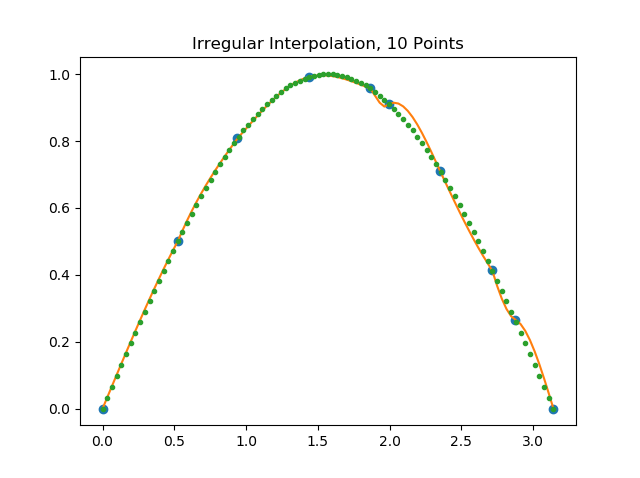
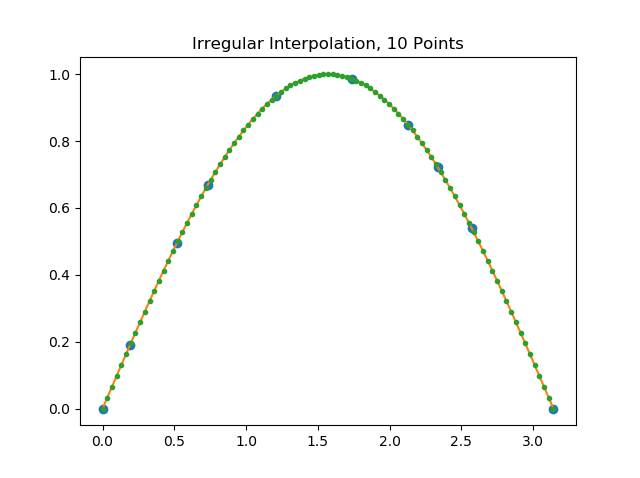
Fixed but in cubic spline code and updated documentation. Documented cubic hermit interpolation. Not implemented yet.

diff --git a/Julia/cubic_spline.tex b/Julia/cubic_spline.tex
@@ -190,9 +190,8 @@ D_1\\D_2\\D_3\\ \vdots\\D_n\\D_{n+1}
 % just to be safe for later
 
 \subsection{Cubic Spline Results}
-My implementation of these results(which isn't necessarily bug free)
-shows excessive oscillation of the splines for irregularly spaced
-points. Figure~\ref{fig:regSpline} is my interolation of a spline
+\subsubsection{Checking Validity}
+Figure~\ref{fig:regSpline} is my interpolation of a spline
 curve for regularly spaced points using my spline routine.
 \begin{figure}
 \begin{center}
@@ -212,8 +211,7 @@ spaced points.
 spaced points for $\sin(x), x=0,\pi$. The large circles are the data,
 the dotted line the exact curve and the orange line the spline curve.}
 \end{figure}
-Note extra oscillations which occur in this case.
-Doing the same calculation in Matlab gives better results.
+Doing the same calculation in Matlab gives similar results.
 Figure~\ref{fig:matSpline} is the same calculation done in Matlab
 with irregularly spaced points.
 \begin{figure}
@@ -224,12 +222,57 @@ with irregularly spaced points.
 spline routine with irregularly spaced points.
 Compare to Figure~\ref{fig:irregSpline}.}
 \end{figure}
-I could have an unstable algorithm, an error in the implementation,
-or an error in the derivation. In any case, piece-wise hermite polynomial
-may be a better way to go. The following references are in the Matlab
-documentation of the pchip function\cite{Fritsch,Kahaner}.
+I also did a range of unit tests on the routine checking for
+satisfying the spline equations and for continuity of the function
+and its first two derivatives at the knots. All units tests were
+passed successfully.
+
+\subsubsection{Extra Oscillations}
+If there are jumps in the data making the curve look
+discontinuous, a spline can oscillate near the gap.
+Consider the data in Figure~\ref{fig:csbump}
+\begin{figure}
+\begin{center}
+\includegraphics[width=11cm]{csbump}
+\end{center}
+\caption{\label{fig:csbump}Cubic spline interpolation for
+data with a sudden bump.}
+\end{figure}
+as an example.
+In this case, a piece-wise hermite polynomial
+may be a better way to go. Matlab
+recommends the pchip function\cite{Fritsch,Kahaner} based
+on hermite polynomials to address this issue. The spline interpolation
+in Matlab is identical to the Julia one. Figure~\ref{fig:pchip}
+is what the pchip routine produces.
+\begin{figure}
+\begin{center}
+\includegraphics[width=11cm]{pchip}
+\end{center}
+\caption{\label{fig:pchip}Hermite polynomial interpolation
+for data with a sudden bump using pchip in MATLAB.}
+\end{figure}
 
 \section{Piece-wise Hermite Polynomials}
+This is probably not the most efficient implementation, but
+I will follow Fritsch's notation\cite{Fritsch}
+\begin{align}
+f(x) &= y_i H_1(x) + y_{i+1} H_2(x) + d_i H_3(x) + d_{i+1} H_4(x)\\
+y_i &= f(x_i)\\
+d_i &= f'(x_i)\\
+h_i &= x_{i+1}-x{i}\\
+H_1(x) &= \phi\left(\frac{x{i+1}-x}{h_i}\right)\\
+H_2(x) &= \phi\left(\frac{x-x_i}{h_i}\right)\\
+H_3(x) &= -h_i\psi\left(\frac{x_{i+1}-x}{h_i}\right)\\
+H_4(x) &= h_i\psi(\left(\frac{x-x_i}{h_i}\right)\\
+\phi(t) &= 3t^2-2t^3\\
+\psi(t) &= t^3-t^2
+\end{align}
+
+The prescription in Fritsch\cite{Fritsch} for producing cubic
+hermite interpolants requires the derivatives at the knots. It
+is not clear from the documentation which choice MATLAB
+made in the pchip routine.
 \subsection{Derivatives}
 The formulas in the previous section require the computation of
 numerical derivatives at each knot.

diff --git a/Julia/matbump.m b/Julia/matbump.m
@@ -1,0 +1,11 @@
+% matbump.m
+x = [0.0, 0.1, 0.2, 0.3, 0.35, 0.55, 0.65, 0.75];
+y = [0.0, 0.01, 0.02, 0.03, 0.5, 0.51, 0.52, 0.53];
+xx = linspace(0.0,0.75,400);
+yy = spline(x,y,xx);
+plot(x,y,'o',xx,yy,'-')
+title("spline")
+figure()
+yy = pchip(x,y,xx);
+plot(x,y,'o',xx,yy,'-')
+title("pchip")
